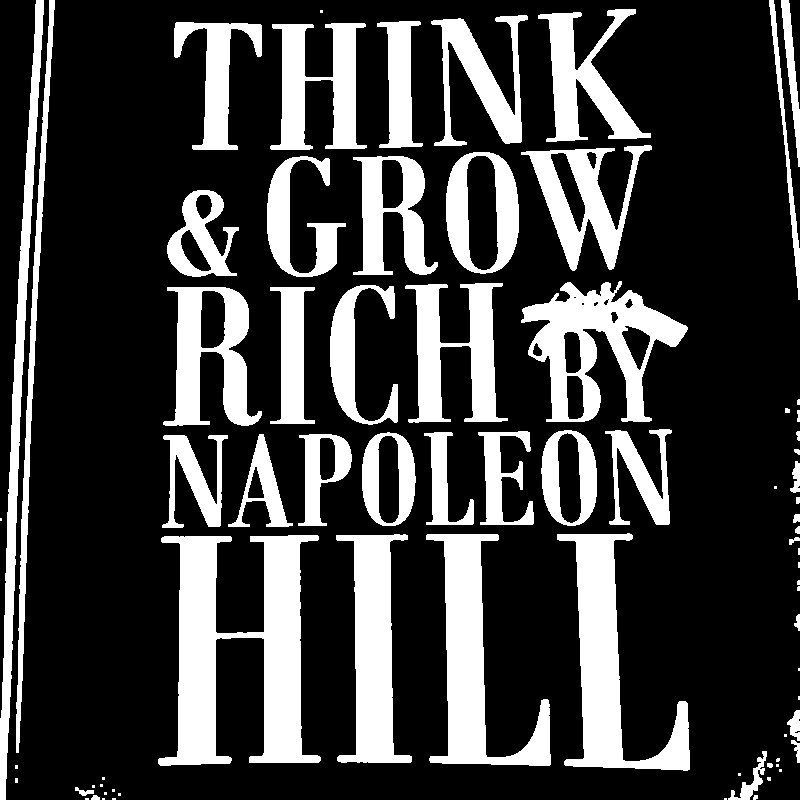
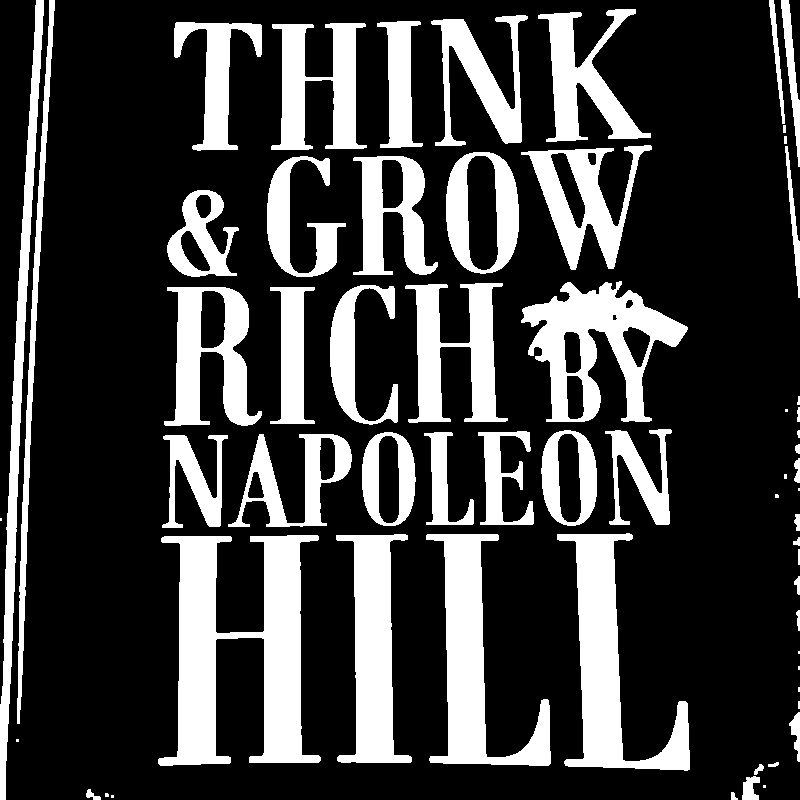
Convert to text by morphing the image

diff --git a/preprocess_image.py b/preprocess_image.py
@@ -3,7 +3,8 @@ import cv2
 
 def preprocess_image():
     # Read the image
-    gray = cv2.imread('Images/gray.jpg', cv2.IMREAD_GRAYSCALE)
+    # gray = cv2.imread('Images/gray.jpg', cv2.IMREAD_GRAYSCALE)
+    gray = cv2.imread('Images/morph.jpg', cv2.IMREAD_GRAYSCALE)
 
     '''
     # Apply binary thresholding
@@ -27,3 +28,66 @@ def preprocess_image():
 
     cv2.imwrite('Images\\preprocessed_img.jpg', opening)
     cv2.imshow('Preprocessed img', opening)
+
+
+import cv2
+import numpy as np
+
+
+def img_prepreprocessing():
+	# Load the image
+	image = cv2.imread('Images/img.jpeg')
+	image = cv2.resize(image, (600, 600))
+
+	# Check if the image is loaded successfully
+	if image is None:
+	    print("Error: Could not read the image.")
+	else:
+	    # 1. Grayscale Conversion
+	    gray_image = cv2.cvtColor(image, cv2.COLOR_BGR2GRAY)
+	    
+	    # 2. Gaussian Blurring
+	    blurred_image = cv2.GaussianBlur(gray_image, (5, 5), 0)
+	    
+	    # 3. Thresholding
+	    _, binary_image = cv2.threshold(blurred_image, 128, 255, cv2.THRESH_BINARY)
+	    
+	    # 4. Edge Detection
+	    edges = cv2.Canny(blurred_image, 100, 200)
+	    
+	    # 5. Dilation and Erosion
+	    kernel = np.ones((5, 5), np.uint8)
+	    dilated_image = cv2.dilate(binary_image, kernel, iterations=1)
+	    eroded_image = cv2.erode(dilated_image, kernel, iterations=1)
+	    
+	    # 6. Resizing
+	    resized_image = cv2.resize(eroded_image, (300, 300))
+	    
+	    # 7. Normalization
+	    # normalized_image = cv2.normalize(resized_image, None, 0, 255, cv2.NORM_MINMAX)
+	    normalized_image = cv2.normalize(edges, None, 0, 255, cv2.NORM_MINMAX)
+	    
+	    # 8. Histogram Equalization (for grayscale images)
+	    equalized_image = cv2.equalizeHist(gray_image)
+	    
+	    # Display the results
+	    # cv2.imshow('Original Image', image)
+	    # cv2.imshow('Grayscale Image', gray_image)
+	    # cv2.imshow('Blurred Image', blurred_image)
+	    # cv2.imshow('Binary Image', binary_image)
+	    # cv2.imshow('Edges', edges)
+	    # cv2.imshow('Dilated Image', dilated_image)
+	    # cv2.imshow('Eroded Image', eroded_image)
+	    # cv2.imshow('Resized Image', resized_image)
+	    cv2.imshow('Normalized Image', normalized_image)
+	    # cv2.imshow('Equalized Image', equalized_image)
+	    cv2.imwrite('edge.jpg', normalized_image)
+	    
+	    # Wait until a key is pressed
+	    cv2.waitKey(0)
+	    
+	    # Destroy all OpenCV windows
+	    cv2.destroyAllWindows()
+
+
+# img_prepreprocessing()

diff --git a/convert_to_gray_morph.py b/convert_to_gray_morph.py
@@ -1,10 +1,17 @@
 import cv2
+import numpy as np
 
 
-def convert_to_gray():
+def convert_to_gray_morph():
     # frame = cv2.imread('Images/inge_img.jpg.jpg')
     frame = cv2.imread('Images/img.jpeg')
     frame = cv2.resize(frame, (800, 800))
     gray = cv2.cvtColor(frame, cv2.COLOR_BGR2GRAY)
     cv2.imwrite('Images/gray.jpg', gray)
     cv2.imshow('Gray Image', gray)
+
+    kernel_size=5
+    kernel = np.ones((kernel_size, kernel_size), np.uint8)
+    morph = cv2.morphologyEx(gray, cv2.MORPH_OPEN, kernel)
+    cv2.imwrite('Images/morph.jpg', morph)
+    cv2.imshow('Morph Image', morph)

diff --git a/main.py b/main.py
@@ -1,12 +1,12 @@
 import capture_pic
-import convert_to_gray
+import convert_to_gray_morph
 import preprocess_image
 import convert_text
 
 
 def main():
 	capture_pic.capture_pic()
-	convert_to_gray.convert_to_gray()
+	convert_to_gray_morph.convert_to_gray_morph()
 	preprocess_image.preprocess_image()
 	convert_text.convert_text()
 

diff --git a/convert_text.py b/convert_text.py
@@ -14,5 +14,9 @@ def convert_text():
 	text = pytesseract.image_to_string(opening, config=custom_config)
 
 	print("Text:")
+	print()
 	print(text)
 	cv2.waitKey(0)
+
+
+# convert_text()
